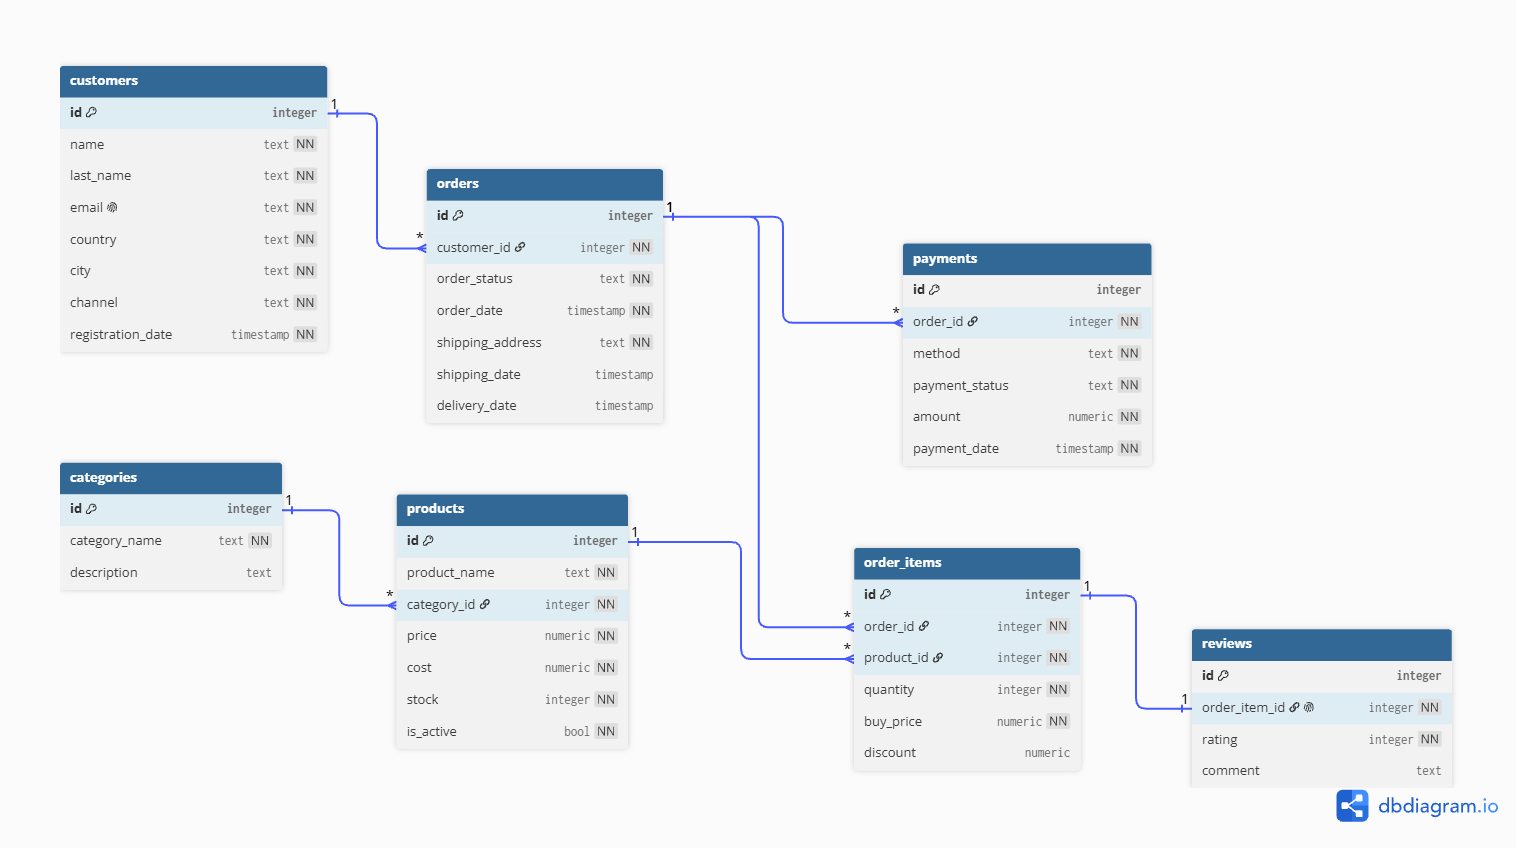
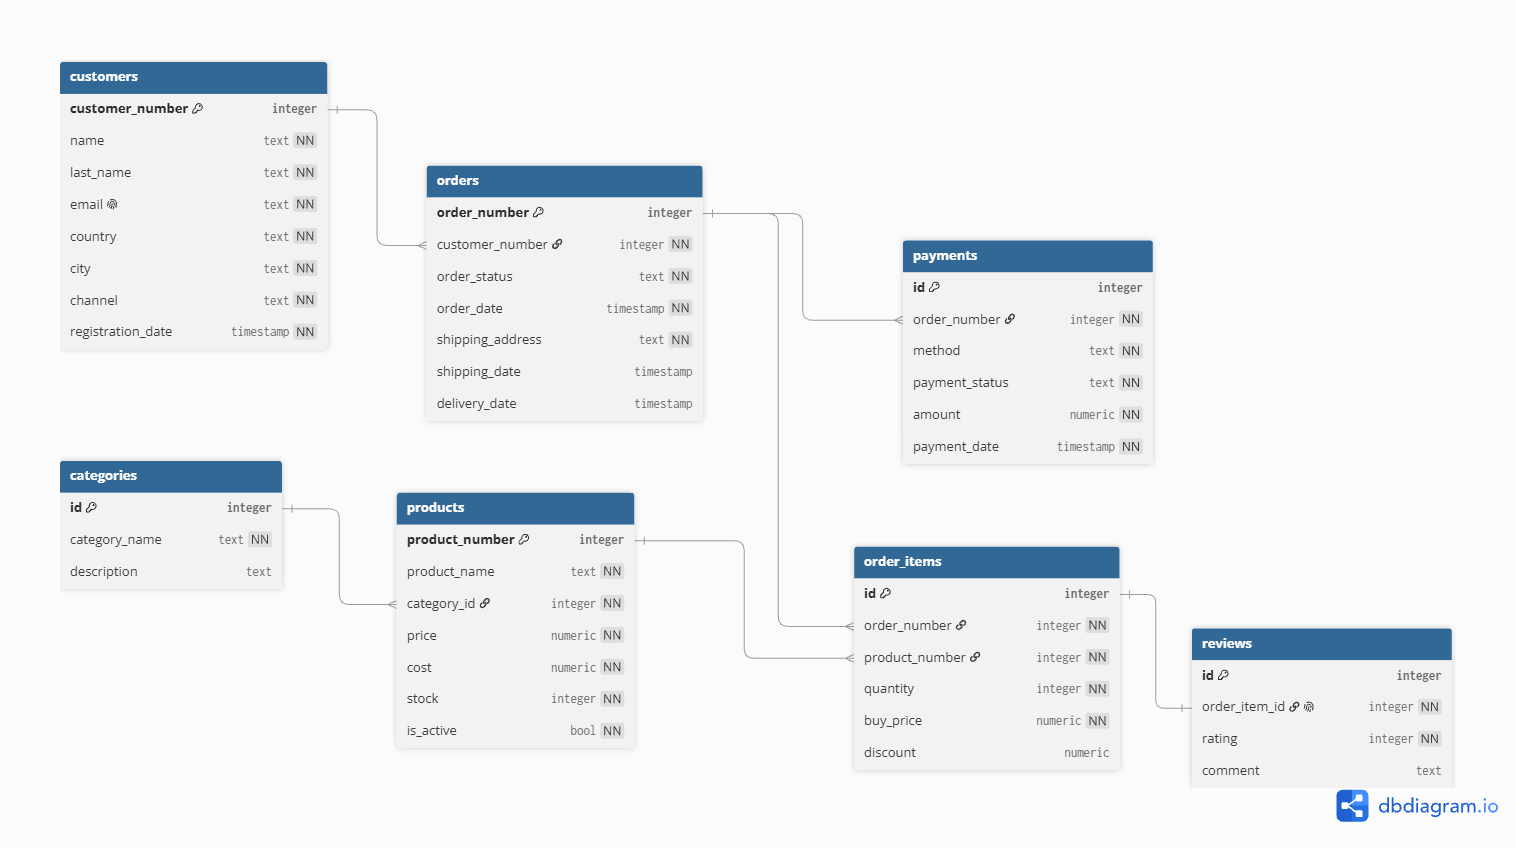
Pequeñas modificaciones en diagrama er y añadir info a README.

diff --git a/README.md b/README.md
@@ -12,6 +12,27 @@ La investigación y resolución de caso se encunetra en el archivo .\parte_1_sql
 
 ## Parte 2 - Modelo Big Query
 
+### Introducción
+
 ## Modelo entidad relación
+
+Se ha diseñado el modelo ER de la base de datos incluyendo tablas para todas las entidades indicadas en el enunciado: customers, categories, products, orders, order_items, payments y reviews. Para esto se han tenido en cuenta las siguientes cuestiones:
+
+Las tablas orders y products se relacionan a través de la tabla intermedia order_items por los siguientes motivos:
+  - La relación directa entre products y orders sería muchos a muchos (N:M). Es decir, un pedido puede contener múltiples productos diferentes y un mismo producto puede encontrarse en múltiples pedidos. 
+  - Esta relación directa no es viable en el modelo 3NF. Si quisieramos incluir una lista de productos en un pedido estaríamos violando la primera forma normal (1NF).
+  - Además la transacción de compra genera atributos propios que no pertenecen ni al pedido global ni al producto del catálogo como son el número de unidades y el precio en el momento de la compra.
+  Gracias a la tabla order_items podemos establecer la siguiente relación: 
+  - Múltiples líneas de pedido (order_items) pueden tener un mismo número de pedido (order). Lo que significa que dentro del mismo pedido se pueden solicitar múltiples líneas de pedido.
+  - Cada línea de pedido representa el producto solicitado con su cantidad, precio y posibles descuentos.
+  - De este modo se enlaza a cada pedido los múltiples productos con sus cantidades y precios.
+
+El precio de compra (buy_price) se congela en la tabla order_items en lugar de leerlo directamente de la tabla products ya que el precio de catálogo puede variar con el tiempo y no coincidir con el del momento de la compra.
+
+Los campos country y city residen directamente como atributos de texto en customers en lugar de aislarse en una tabla normalizada countries o cities. Esto xumple un objetivo de eficiencia analítica orientado a Google BigQuery. Evita operaciones de JOIN innecesarias y costosas al realizar agrupaciones y segmentaciones geográficas frecuentes (GROUP BY country, city), además de simplificar la ingesta y generación de datos sintéticos desde Python sin requerir el mantenimiento de catálogos geográficos maestros.
+
+Si en orders almacenásemos el nombre del cliente (customer_name) además de customer_number se violaría la Tercera Forma Normal (3NF) que exige que todos los atributos que no son clave dependan directa y únicamente de la clave primaria, eliminando así las dependencias transitivas (prohíbe las dependencias transitivas). En orders, la clave primaria es order_number. Si añadimos customer_name, este dependería funcionalmente de customer_number, el cual a su vez depende de la clave primaria orders.order_number. Esto generaría redundancia innecesaria y anomalías de actualización (si el cliente cambia de nombre, habría que actualizar múltiples registros históricos en orders).
+
+La entidad reviews se vincula a nivel de línea de pedido (order_item_id) con una relación 1:1 estricta (UNIQUE). Esto garantiza la regla de negocio de "compra verificada" (solo se puede opinar sobre productos realmente adquiridos) y evita que un cliente valore varias veces el mismo producto dentro de un mismo pedido.
 
 ![er_diagram.png](.\parte_2_modelo_bigquery\docs\er_diagram.png)
